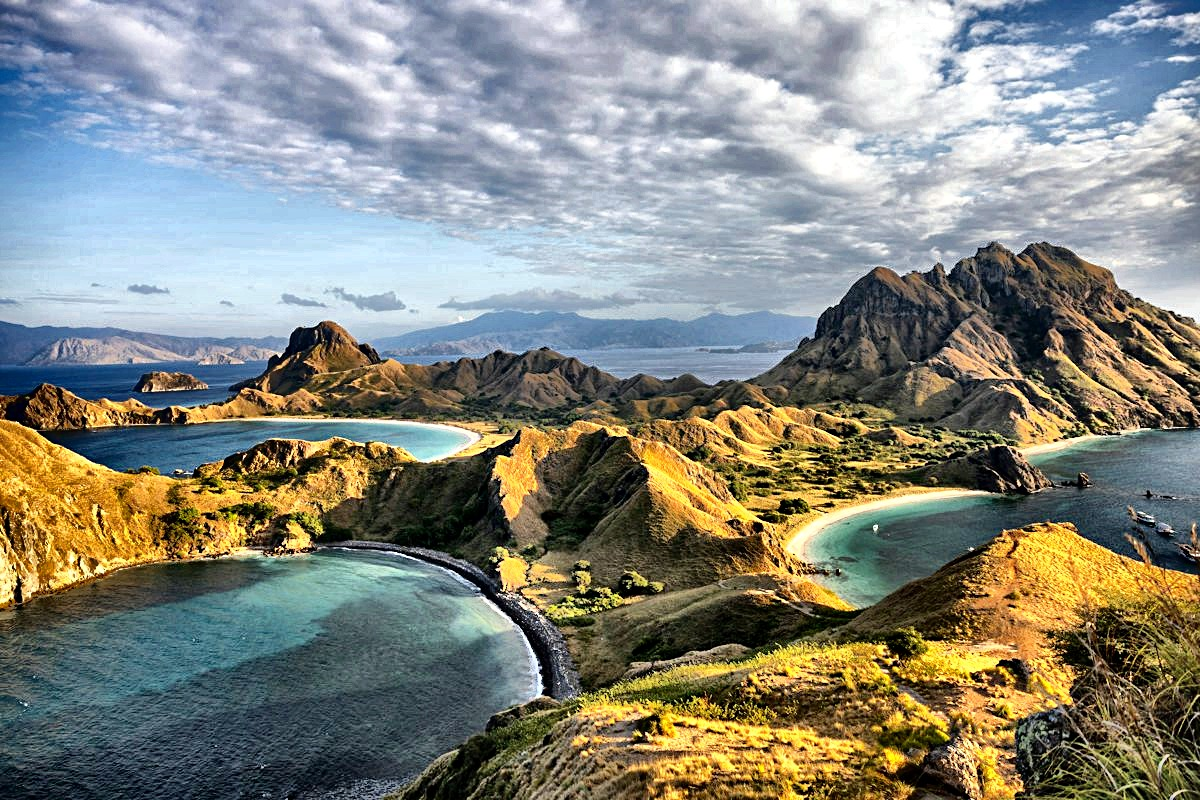
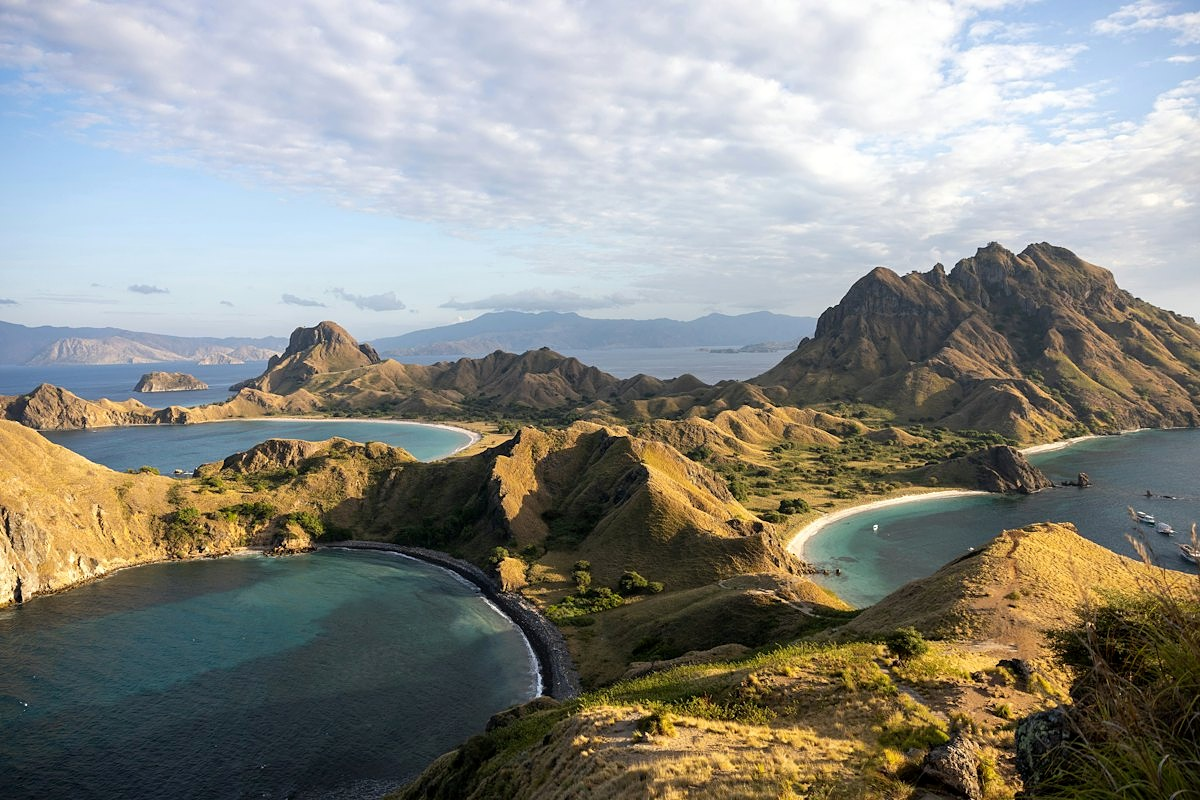
Tone down the hero photo: true colors, sharper detail, no artifacts
The previous pass (CLAHE + saturation push) looked punchy but no longer
matched the real island, and showed artifacts when zoomed in. Replaced
it with a much lighter touch: a small even contrast lift (no color push,
no CLAHE) plus a tight, small-radius unsharp mask that sharpens actual
texture (grass, rock) instead of leaving halos around skylines.

diff --git a/id/index.html b/id/index.html
@@ -13,8 +13,8 @@
 <link rel="preconnect" href="https://fonts.gstatic.com" crossorigin>
 <link rel="stylesheet" href="https://fonts.googleapis.com/css2?family=Cormorant+Garamond:ital,wght@0,500;0,600;1,500&family=Jost:wght@400;500&display=swap">
 <link rel="stylesheet" href="../assets/css/style.css?v=0841e373">
-<link rel="preload" as="image" href="../assets/img/padar-island-phone.jpg?v=a2439c5e" media="(max-width: 960px)" fetchpriority="high">
-<link rel="preload" as="image" href="../assets/img/padar-island.jpg?v=2063f186" media="(min-width: 961px)" fetchpriority="high">
+<link rel="preload" as="image" href="../assets/img/padar-island-phone.jpg?v=b5f9d333" media="(max-width: 960px)" fetchpriority="high">
+<link rel="preload" as="image" href="../assets/img/padar-island.jpg?v=ee367852" media="(min-width: 961px)" fetchpriority="high">
 </head>
 <body class="home">
 <a class="skip" href="#main">Skip to content</a>
@@ -45,7 +45,7 @@
 <section id="story" data-scene="0" aria-label="Komodo &amp; Ko.">
  <i class="snap" data-stop="0"></i><i class="snap" data-stop="0.26"></i><i class="snap" data-stop="0.52"></i><i class="snap" data-stop="0.86"></i>
  <div class="stage">
-  <div class="cam"><picture><source media="(max-width: 960px)" srcset="../assets/img/padar-island-phone.jpg?v=a2439c5e"><img class="plate" src="../assets/img/padar-island.jpg?v=2063f186" fetchpriority="high" alt="View over the bays of Padar Island in Komodo National Park, with boats at anchor"></picture><div class="mist"></div></div>
+  <div class="cam"><picture><source media="(max-width: 960px)" srcset="../assets/img/padar-island-phone.jpg?v=b5f9d333"><img class="plate" src="../assets/img/padar-island.jpg?v=ee367852" fetchpriority="high" alt="View over the bays of Padar Island in Komodo National Park, with boats at anchor"></picture><div class="mist"></div></div>
   <div class="veil"></div>
   <div class="shade"></div>
 
@@ -54,7 +54,7 @@
     <h1><span class="ln"><span>Anda Menjelajah. Sisanya Kami yang Urus</span></span></h1>
   </div></div>
 
-  <div class="cam camF" aria-hidden="true"><img class="plateF" src="../assets/img/padar-island.jpg?v=2063f186" loading="lazy" alt=""></div>
+  <div class="cam camF" aria-hidden="true"><img class="plateF" src="../assets/img/padar-island.jpg?v=ee367852" loading="lazy" alt=""></div>
 
   <div class="layer L1">
     <div class="veil-b"></div>

diff --git a/index.html b/index.html
@@ -13,8 +13,8 @@
 <link rel="preconnect" href="https://fonts.gstatic.com" crossorigin>
 <link rel="stylesheet" href="https://fonts.googleapis.com/css2?family=Cormorant+Garamond:ital,wght@0,500;0,600;1,500&family=Jost:wght@400;500&display=swap">
 <link rel="stylesheet" href="assets/css/style.css?v=0841e373">
-<link rel="preload" as="image" href="assets/img/padar-island-phone.jpg?v=a2439c5e" media="(max-width: 960px)" fetchpriority="high">
-<link rel="preload" as="image" href="assets/img/padar-island.jpg?v=2063f186" media="(min-width: 961px)" fetchpriority="high">
+<link rel="preload" as="image" href="assets/img/padar-island-phone.jpg?v=b5f9d333" media="(max-width: 960px)" fetchpriority="high">
+<link rel="preload" as="image" href="assets/img/padar-island.jpg?v=ee367852" media="(min-width: 961px)" fetchpriority="high">
 </head>
 <body class="home">
 <a class="skip" href="#main">Skip to content</a>
@@ -45,7 +45,7 @@
 <section id="story" data-scene="0" aria-label="Komodo &amp; Ko.">
  <i class="snap" data-stop="0"></i><i class="snap" data-stop="0.26"></i><i class="snap" data-stop="0.52"></i><i class="snap" data-stop="0.86"></i>
  <div class="stage">
-  <div class="cam"><picture><source media="(max-width: 960px)" srcset="assets/img/padar-island-phone.jpg?v=a2439c5e"><img class="plate" src="assets/img/padar-island.jpg?v=2063f186" fetchpriority="high" alt="View over the bays of Padar Island in Komodo National Park, with boats at anchor"></picture><div class="mist"></div></div>
+  <div class="cam"><picture><source media="(max-width: 960px)" srcset="assets/img/padar-island-phone.jpg?v=b5f9d333"><img class="plate" src="assets/img/padar-island.jpg?v=ee367852" fetchpriority="high" alt="View over the bays of Padar Island in Komodo National Park, with boats at anchor"></picture><div class="mist"></div></div>
   <div class="veil"></div>
   <div class="shade"></div>
 
@@ -54,7 +54,7 @@
     <h1><span class="ln"><span>You Explore. We Handle the Rest</span></span></h1>
   </div></div>
 
-  <div class="cam camF" aria-hidden="true"><img class="plateF" src="assets/img/padar-island.jpg?v=2063f186" loading="lazy" alt=""></div>
+  <div class="cam camF" aria-hidden="true"><img class="plateF" src="assets/img/padar-island.jpg?v=ee367852" loading="lazy" alt=""></div>
 
   <div class="layer L1">
     <div class="veil-b"></div>

diff --git a/_build/vibrant_hero.py b/_build/vibrant_hero.py
@@ -1,9 +1,11 @@
 # -*- coding: utf-8 -*-
-"""One-off tool: the hero photo reads hazy (flat sky, muted hills/water) because
-of real atmospheric haze in the shot, not just low saturation — a CSS filter
-can punch up color but can't undo that flatness. This applies local contrast
-(CLAHE, which is what actually cuts through haze), a saturation lift, a mild
-S-curve for punch, and a light sharpen, baked into the file itself.
+"""One-off tool: a light touch on the hero photo — real detail and clarity,
+not a color grade. The first pass (strong CLAHE + saturation) looked punchy
+but stopped looking like the real island, and showed artifacts when zoomed.
+This version barely touches color (a small, even contrast lift only — no
+CLAHE, no saturation push) and spends its effort on a tight, small-radius
+unsharp mask that sharpens actual texture (grass, rock) without the big soft
+halos a wide-radius sharpen leaves around mountain silhouettes.
 """
 import sys
 
@@ -11,27 +13,18 @@ import cv2
 import numpy as np
 
 
-def process(path_in, path_out, clahe_clip=2.6, sat_mult=1.38, contrast=1.08, sharpen=0.35):
-    img = cv2.imread(path_in)
-    lab = cv2.cvtColor(img, cv2.COLOR_BGR2LAB)
-    l, a, b = cv2.split(lab)
-    clahe = cv2.createCLAHE(clipLimit=clahe_clip, tileGridSize=(8, 8))
-    l = clahe.apply(l)
-    lab = cv2.merge([l, a, b])
-    img = cv2.cvtColor(lab, cv2.COLOR_LAB2BGR)
+def process(path_in, path_out, contrast=1.035, sharpen=0.45, radius=1.1):
+    img = cv2.imread(path_in).astype(np.float32)
 
-    hsv = cv2.cvtColor(img, cv2.COLOR_BGR2HSV).astype(np.float32)
-    hsv[:, :, 1] = np.clip(hsv[:, :, 1] * sat_mult, 0, 255)
-    img = cv2.cvtColor(hsv.astype(np.uint8), cv2.COLOR_HSV2BGR)
-
-    img = img.astype(np.float32)
+    # gentle, even S-curve — no CLAHE, so no locally-forced "fake HDR" contrast
     img = (img - 127.5) * contrast + 127.5
     img = np.clip(img, 0, 255).astype(np.uint8)
 
-    blur = cv2.GaussianBlur(img, (0, 0), 3)
+    # small-radius unsharp mask: sharpens fine texture, not big halos on skylines
+    blur = cv2.GaussianBlur(img, (0, 0), radius)
     img = cv2.addWeighted(img, 1 + sharpen, blur, -sharpen, 0)
 
-    cv2.imwrite(path_out, img, [cv2.IMWRITE_JPEG_QUALITY, 92])
+    cv2.imwrite(path_out, img, [cv2.IMWRITE_JPEG_QUALITY, 94])
 
 
 if __name__ == "__main__":
